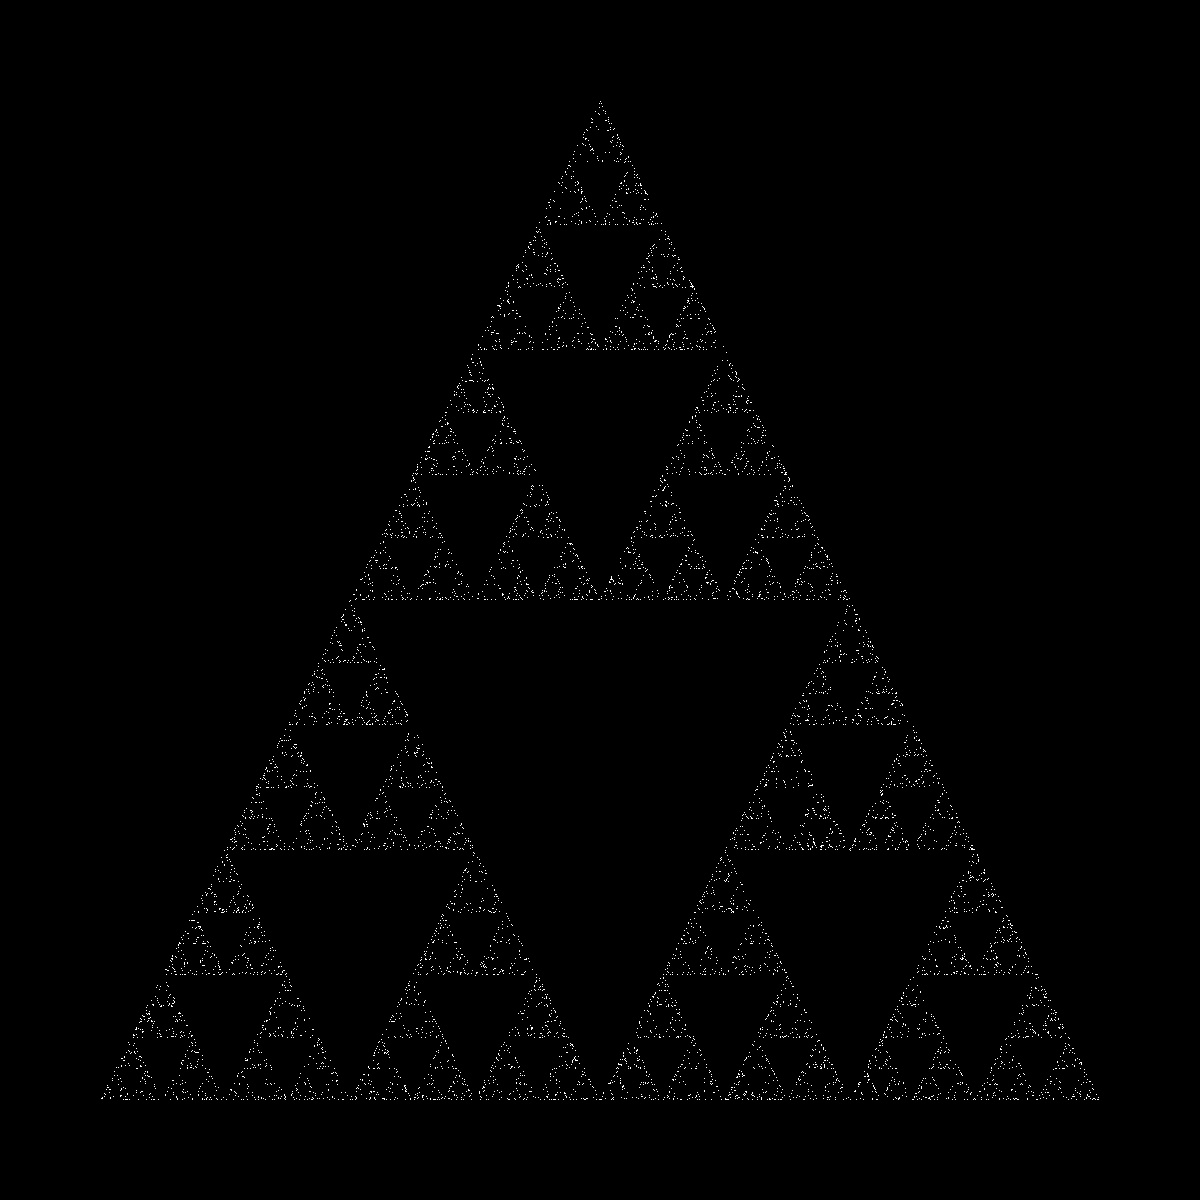
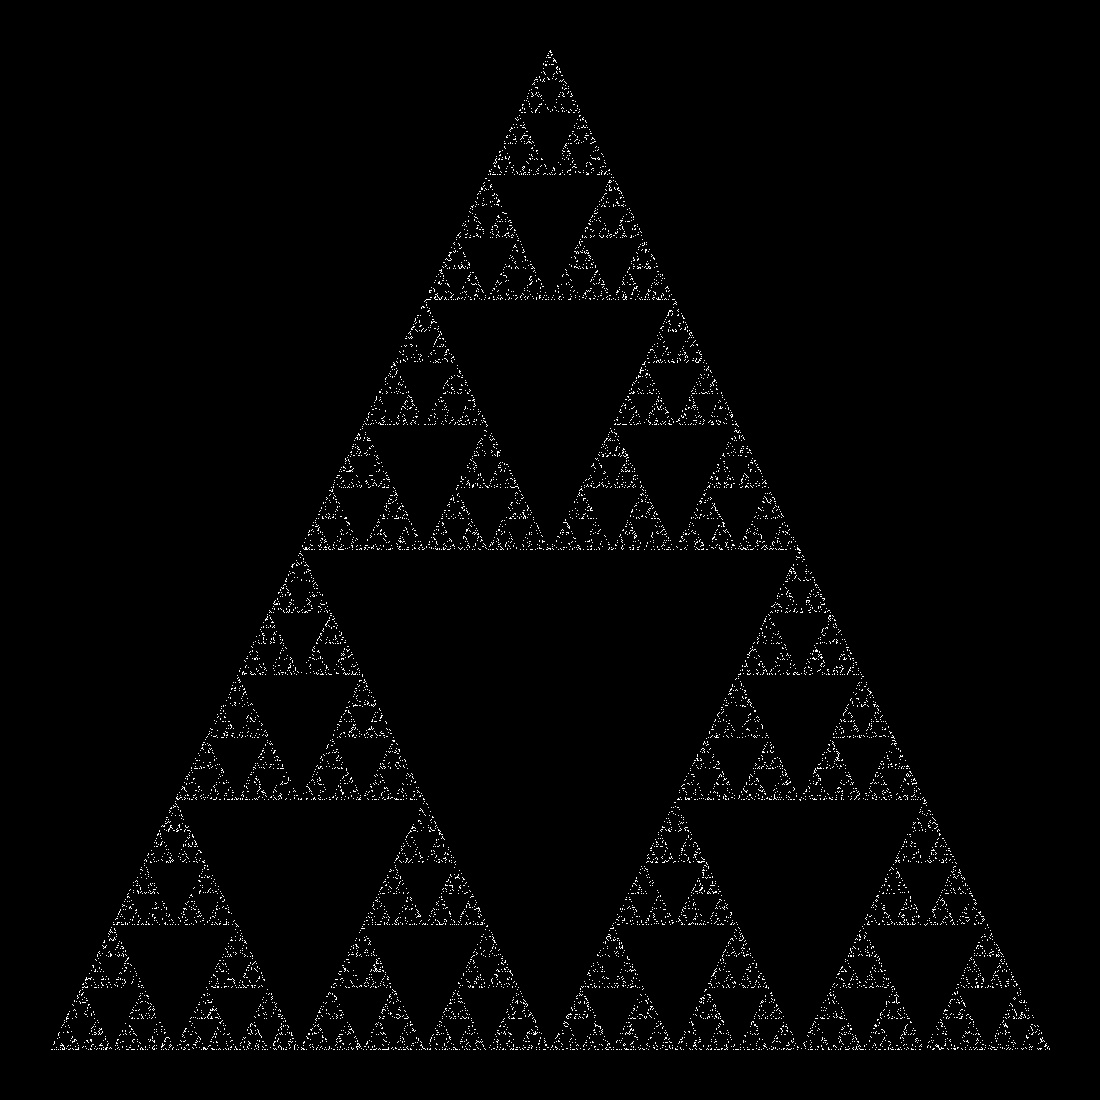
refactored code

diff --git a/sierpinski.py b/sierpinski.py
@@ -1,28 +1,25 @@
 import cv2 
 import numpy as np
 import random
-
 from PIL import Image
 
-    
 XMAX = 1000
 YMAX = 1000
-BORDER = 100
+BORDER = 50
 
 corners = {1:(XMAX//2, 0), 2:(0,YMAX), 3:(XMAX,YMAX)}
 
 def getMidPoint(x1,y1,x2,y2):
     return ((x1+x2)//2, (y1+y2)//2)
 
-img = np.zeros((XMAX,YMAX))
-
 x = XMAX//2
 y = YMAX//2
 
 limg = np.zeros((XMAX+2*BORDER, YMAX+2*BORDER))
 
+# get frames
 frames = []
-for i in range(10000):
+for i in range(20000):
     (cx,cy) = random.choice(list(corners.values()))
     (x,y) = getMidPoint(x,y,cx,cy)
     limg[BORDER+y, BORDER+x]=255 
@@ -33,7 +30,7 @@ for i in range(10000):
         
 cv2.imwrite("sierpinski.jpg",limg)
 
-
+# create gif
 frame_one = frames[0]
 print("saving gif ...")
 frame_one.save("sierpinski.gif", format="GIF", append_images=frames,
